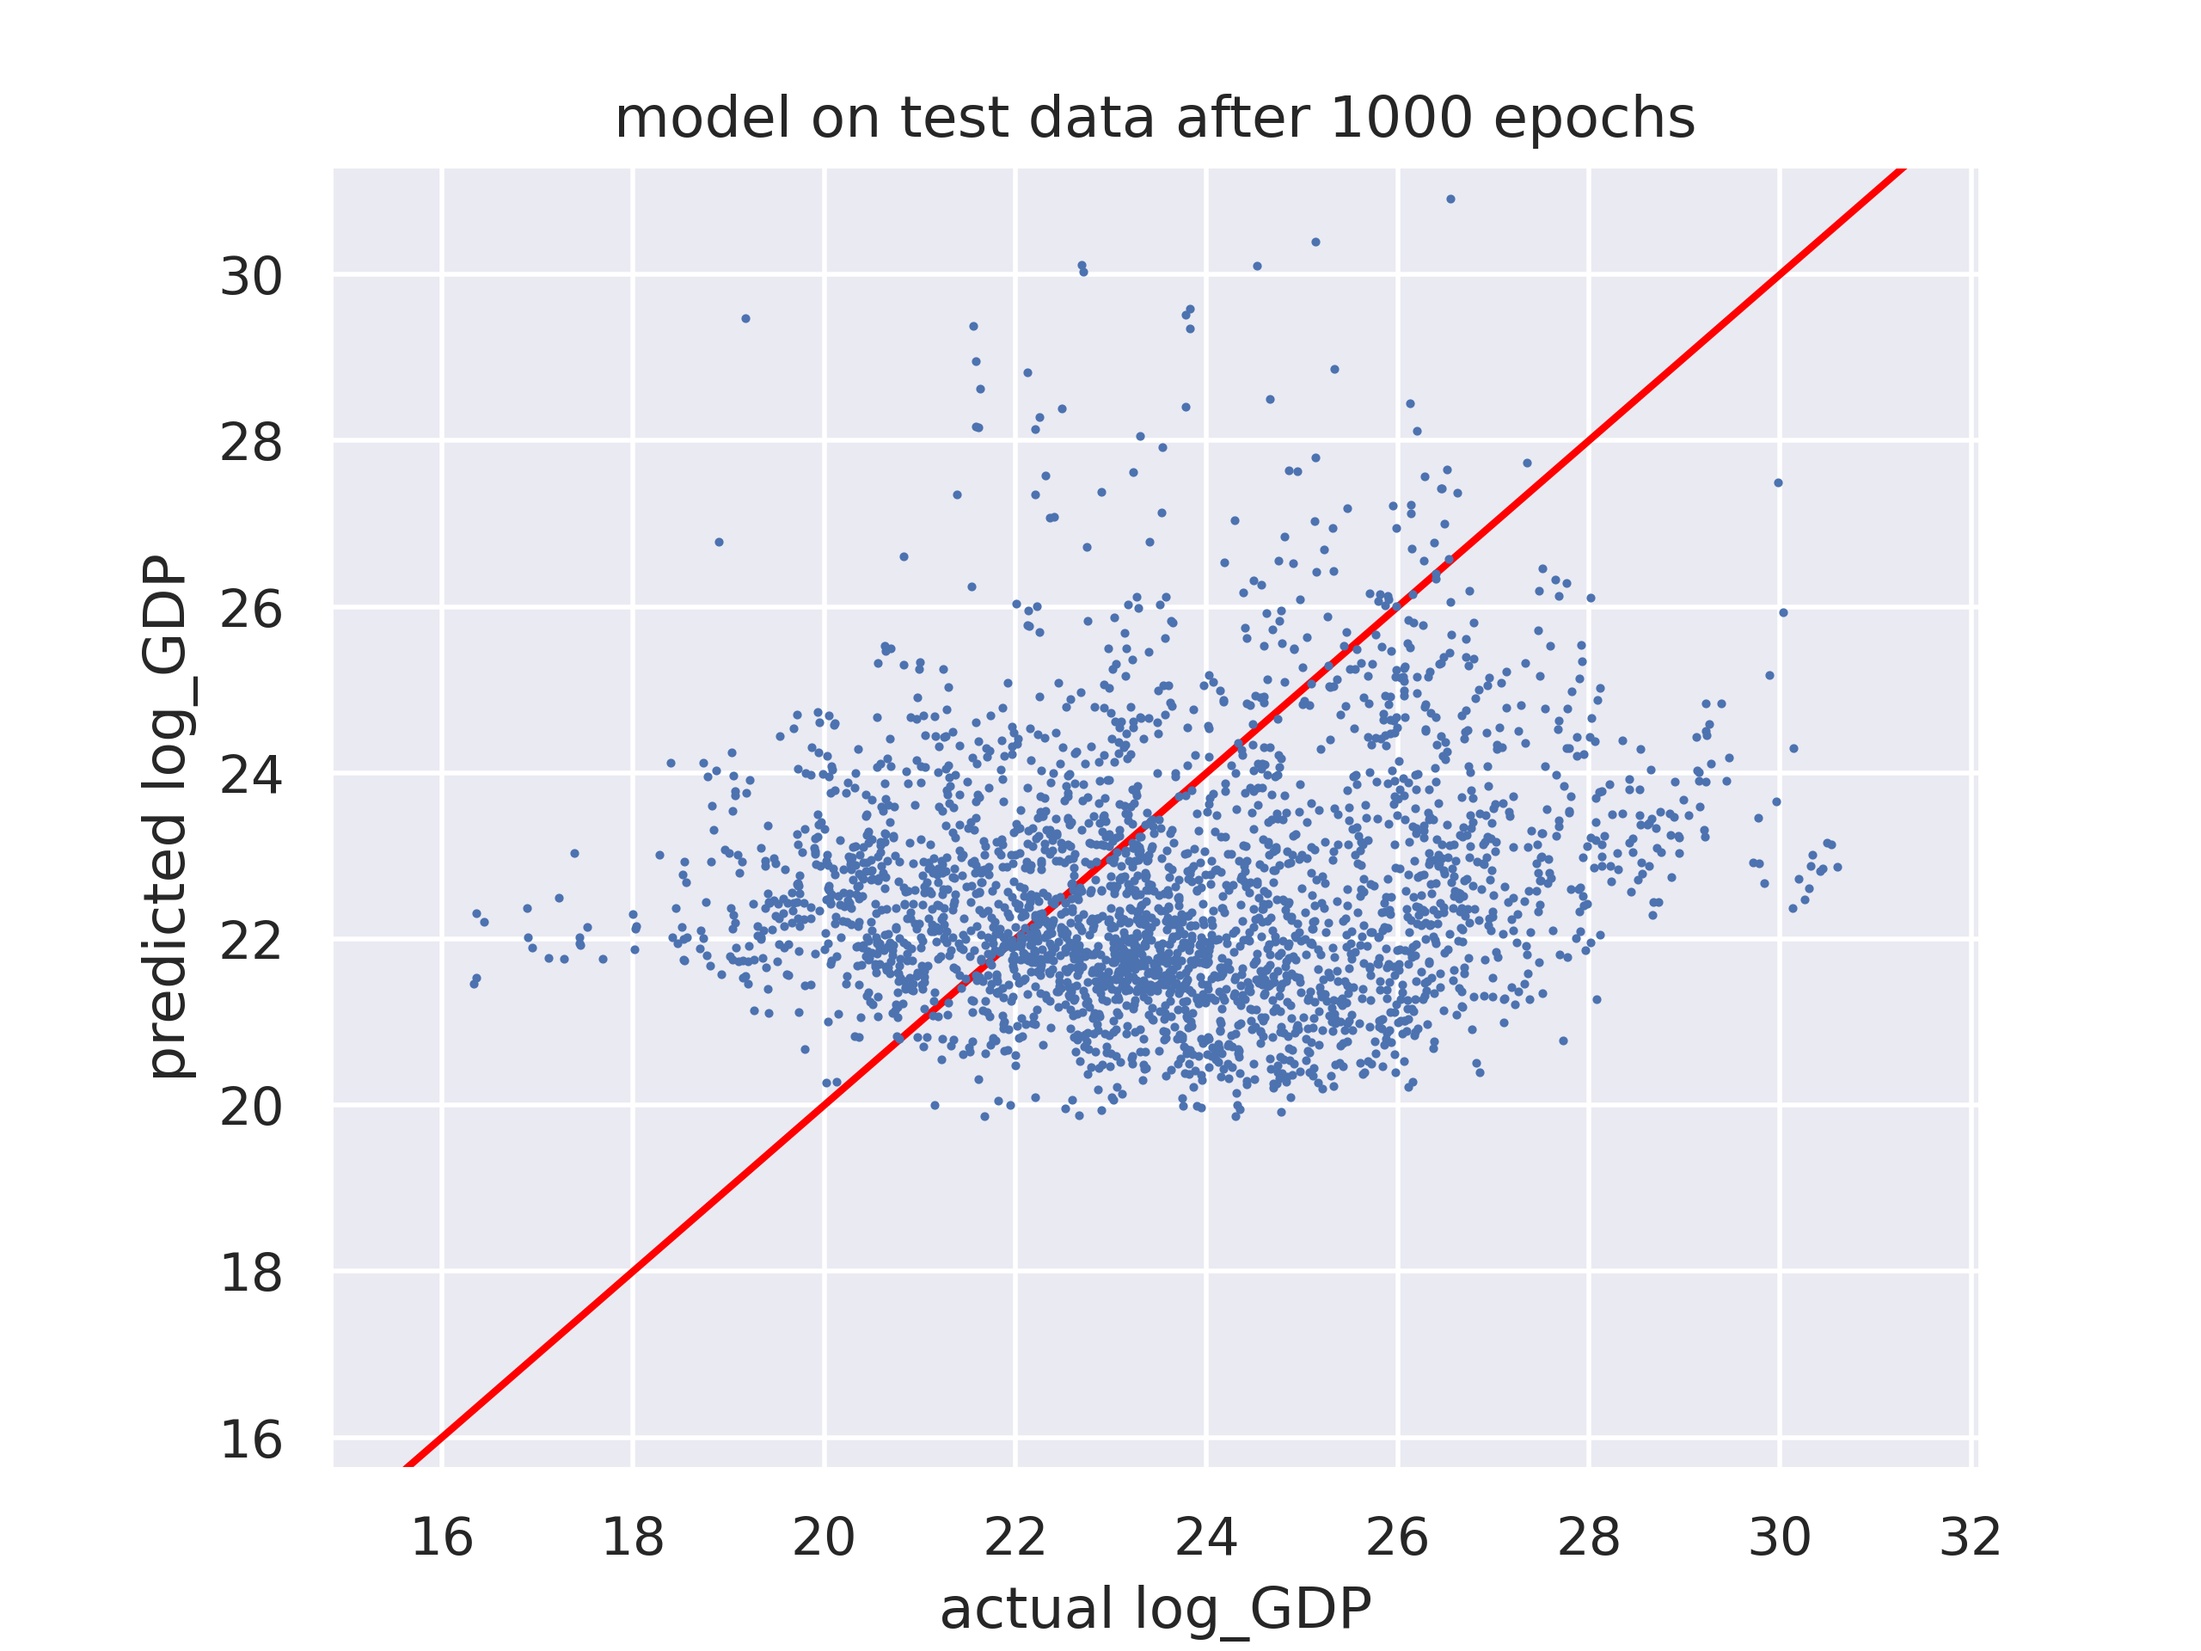
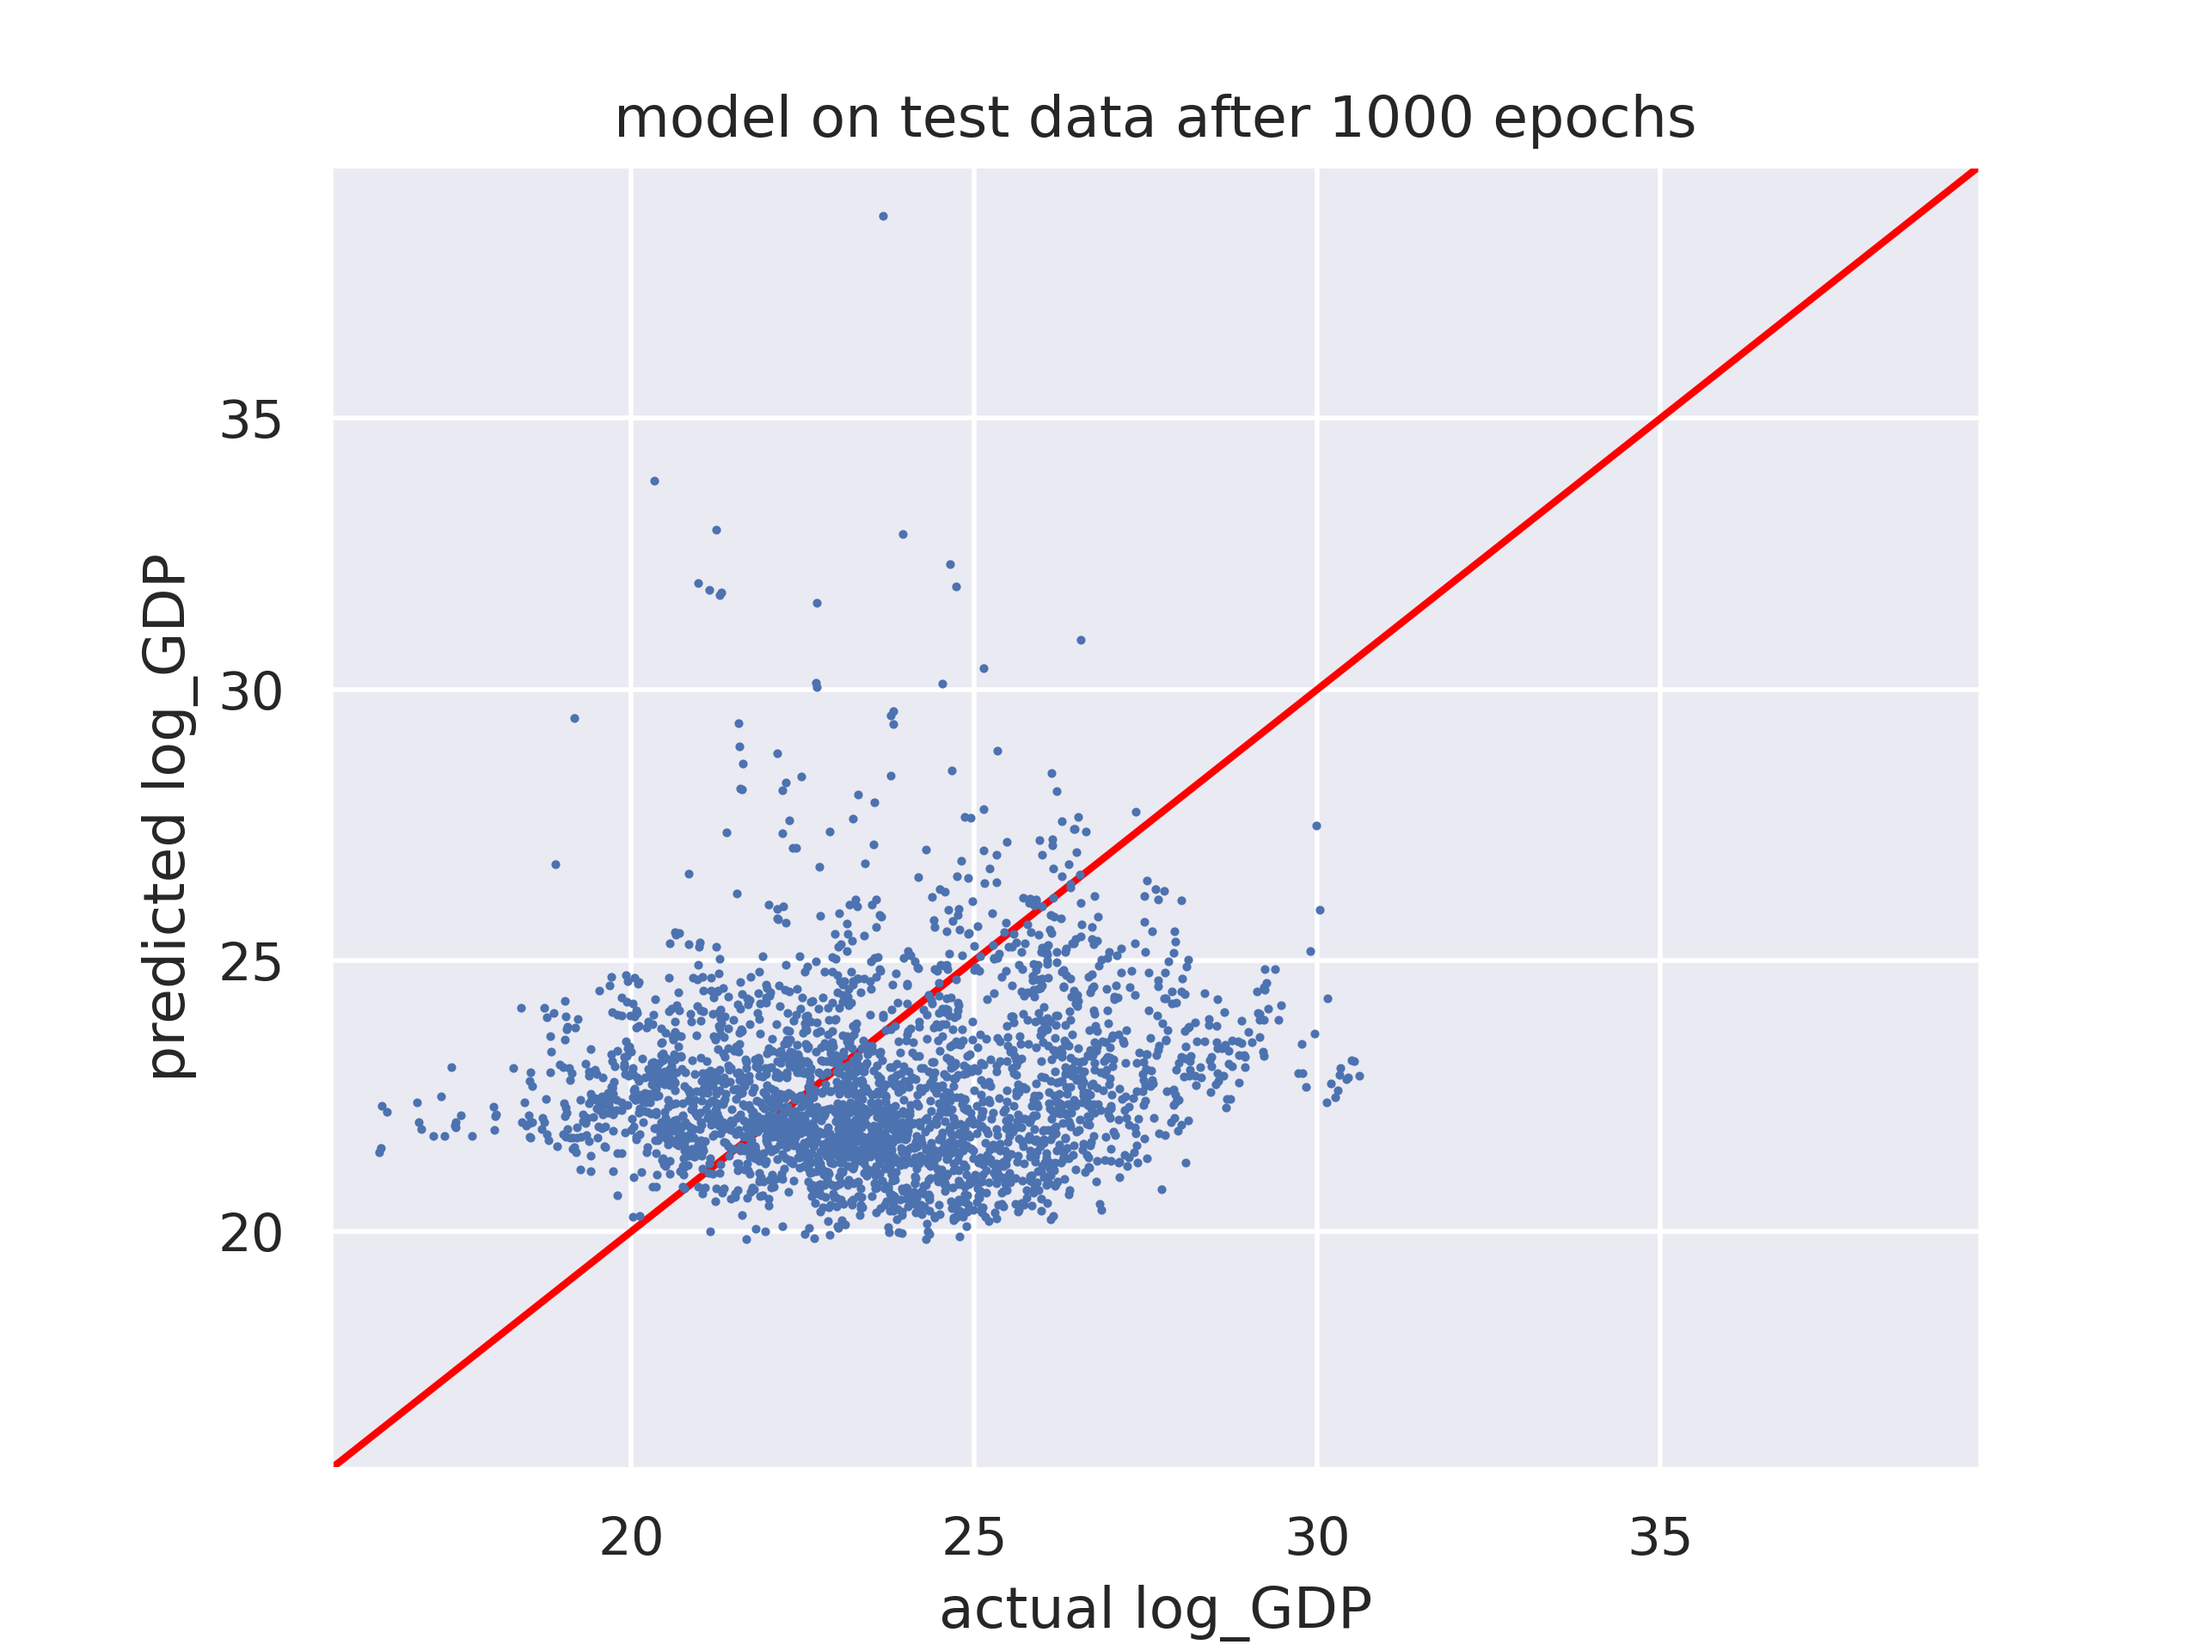
correctly derive limits

diff --git a/plot.py b/plot.py
@@ -33,11 +33,18 @@ def pred_plot(preds_df, title, out_file, max_x, max_y, square=True):
     print(f"Making prediction plot at {out_file}...", end='')
     plt.yscale('linear') # re-set to linear axis (data is already log-ed)
     plt.scatter(preds_df['ground_truth'], preds_df['prediction'], s=.7, zorder=2) # place in front of line
+
+    # derive correct bounds to make square
+    x_l, x_r = plt.xlim()
+    y_l, y_r = plt.ylim()
+    l = min(x_l, y_l)
+    r = max(x_r, y_r)
+
     plt.subplots_adjust(left=0.15, top=0.9) # prevent x-label and title from getting cut off
     plt.xlabel('actual log_GDP')
     plt.ylabel('predicted log_GDP') # label axes
     print("Correlation", np.polyfit(preds_df[['ground_truth']].values.squeeze(), preds_df[['prediction']].values.squeeze(), 1)[0], "...", end="")
-    l, r = plt.xlim()
+    plt.xlim((l,r))
     plt.ylim((l, r))
     plt.plot([l, r], [l, r], color='red', zorder=1) # place behind points
     plt.title(title)
